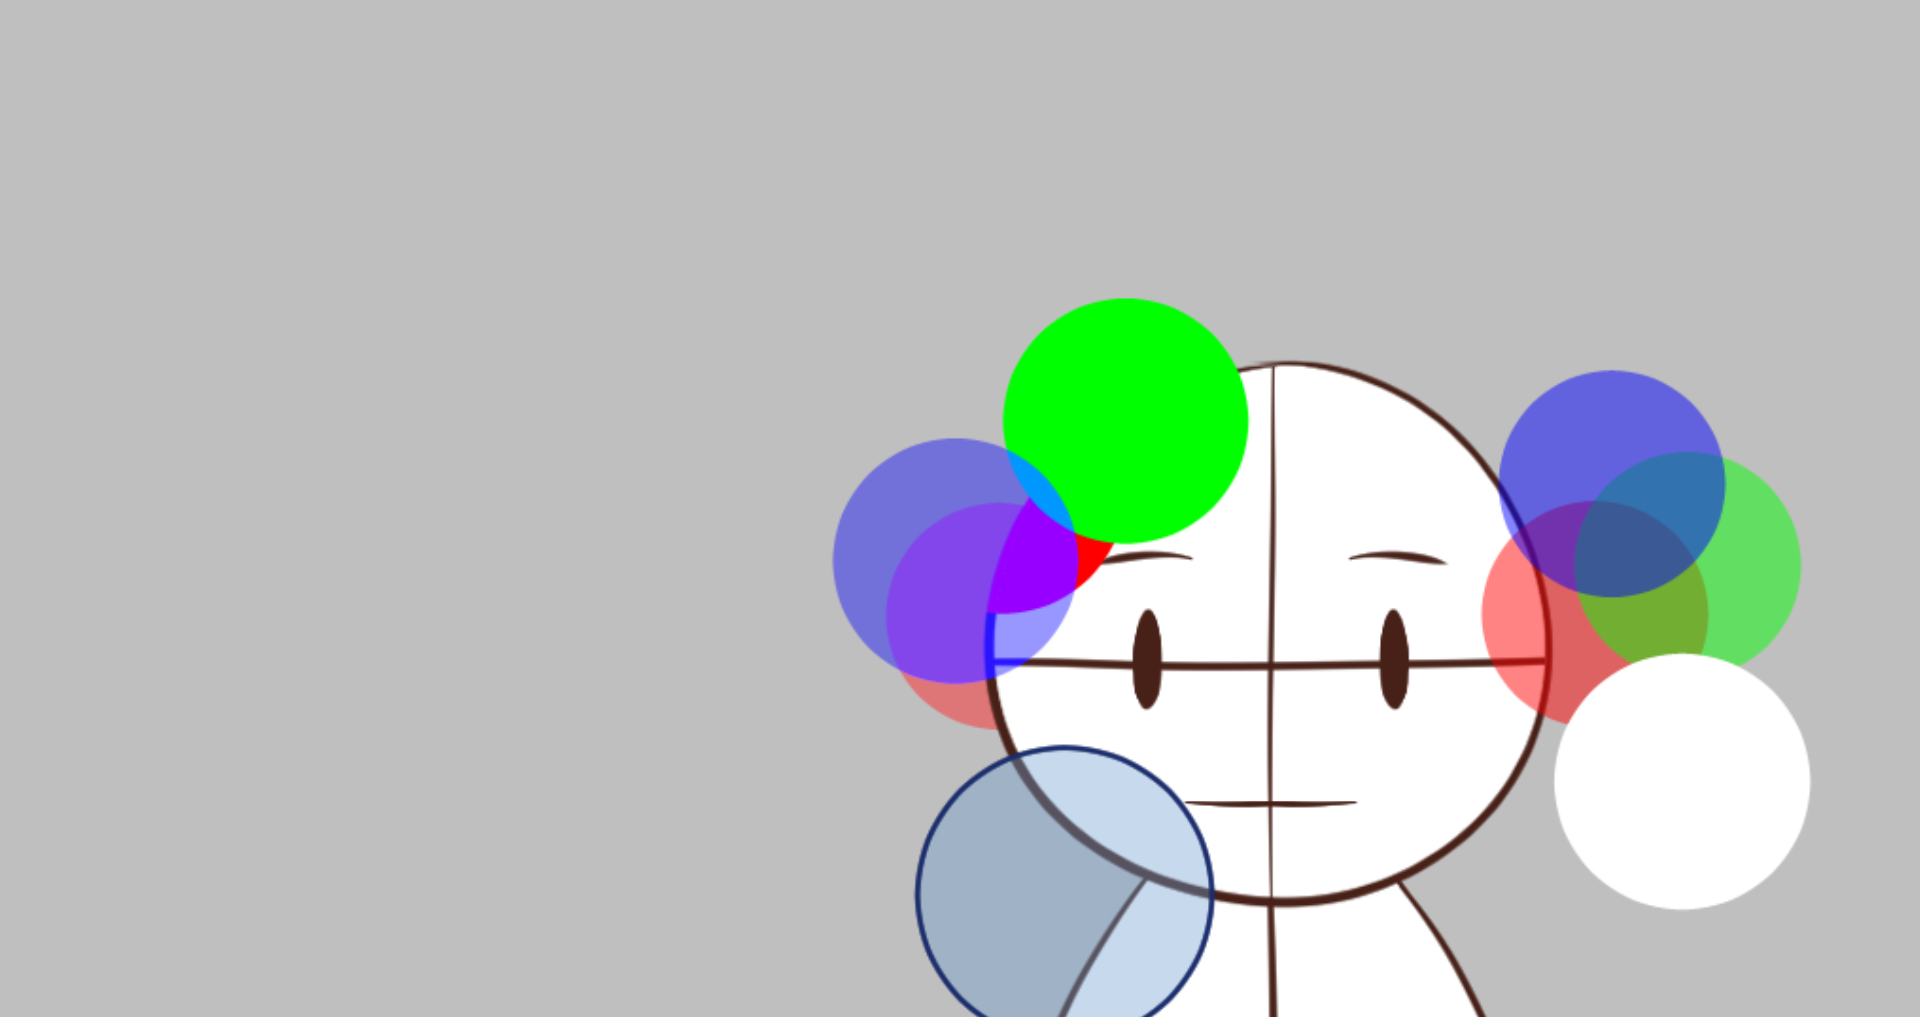
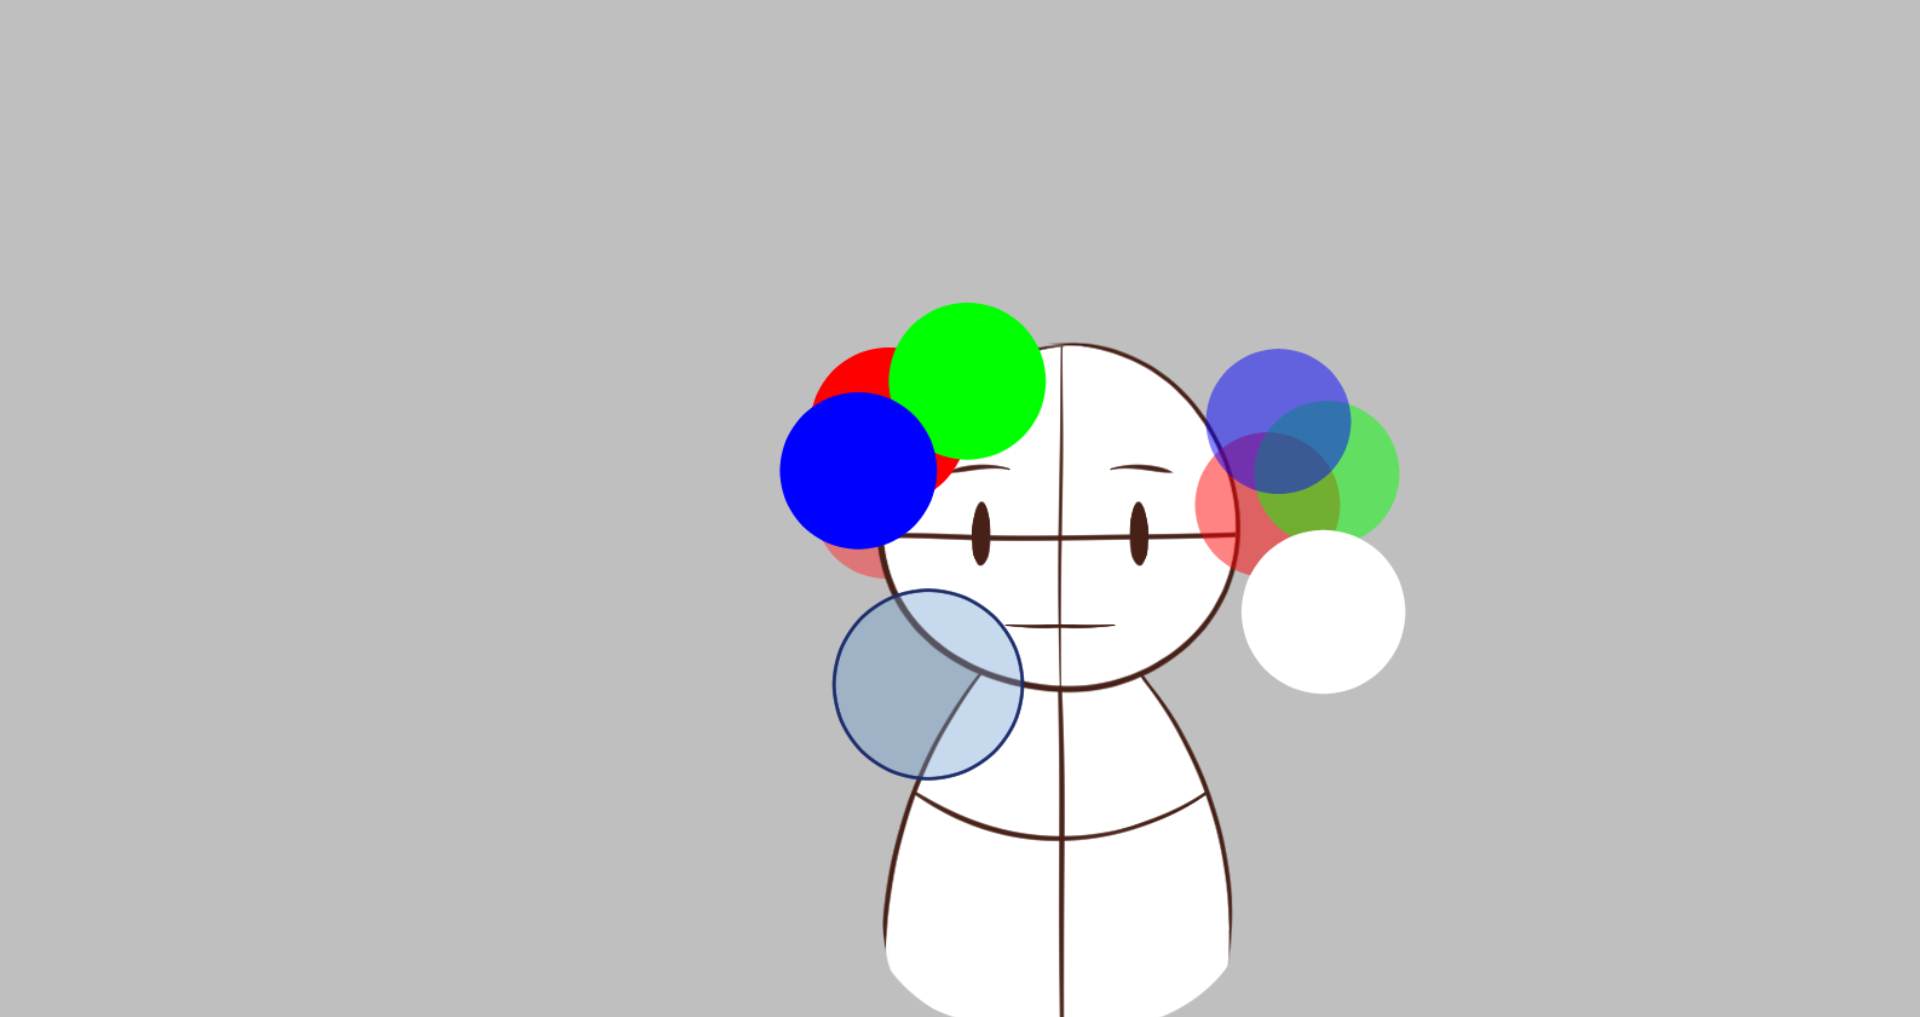
added triangulation

Changed region(s): [[0.4062, 0.2743, 0.9688, 1.0]]

diff --git a/src/Fluff2D/Renderer/Triangulator.cpp b/src/Fluff2D/Renderer/Triangulator.cpp
@@ -1,0 +1,142 @@
+#include "Triangulator.h"
+
+void Triangulator::triangulate(std::vector<Vertex>& vertices, std::vector<unsigned int>& indices, int atlasPositionX, int atlasPositionY, bool flipped, int atlasWidth, int atlasHeight)
+{
+    float xMin = vertices[0].position.x;
+    float yMin = vertices[0].position.y;
+    float xMax = xMin;
+    float yMax = yMin;
+
+    for (int i = 0; i < vertices.size(); i++)
+    {
+        glm::vec2 v = vertices[i].position;
+
+        xMin = std::min(xMin, v.x);
+        yMin = std::min(yMin, v.y);
+        xMax = std::max(xMax, v.x);
+        yMax = std::max(yMax, v.y);
+    }
+
+    float dX = xMax - xMin;
+    float dY = yMax - yMin;
+    float dMax = std::max(dX, dY);
+    float xMid = (xMax + xMin) / 2.0f;
+    float yMid = (yMax + yMin) / 2.0f;
+
+    std::vector<glm::vec2> expanded;
+    expanded.resize(vertices.size() + 3);
+    for (int i = 0; i < vertices.size(); i++)
+    {
+        expanded[i] = vertices[i].position;
+    }
+    expanded[expanded.size() - 3] = glm::vec2(xMid - 2 * dMax, yMid - dMax);
+    expanded[expanded.size() - 2] = glm::vec2(xMid, yMid + 2 * dMax);
+    expanded[expanded.size() - 1] = glm::vec2(xMid + 2 * dMax, yMid - dMax);
+
+    std::vector<Triangle> triangleList;
+    triangleList.emplace_back((unsigned int)vertices.size(), (unsigned int)vertices.size() + 1, (unsigned int)vertices.size() + 2);
+    for (int i1 = 0; i1 < vertices.size(); i1++)
+    {
+        std::vector<Edge> edgeList;
+        int i2 = 0;
+        while (i2 < triangleList.size())
+        {
+            if (inCircle(expanded[i1], expanded[triangleList[i2].p1], expanded[triangleList[i2].p2], expanded[triangleList[i2].p3]))
+            {
+                edgeList.emplace_back(triangleList[i2].p1, triangleList[i2].p2);
+                edgeList.emplace_back(triangleList[i2].p2, triangleList[i2].p3);
+                edgeList.emplace_back(triangleList[i2].p3, triangleList[i2].p1);
+                triangleList.erase(triangleList.begin() + i2);
+                i2--;
+            }
+            i2++;
+        }
+
+        i2 = (int)edgeList.size() - 2;
+        while (i2 >= 0)
+        {
+            int i3 = (int)edgeList.size() - 1;
+            while (i3 >= i2 + 1)
+            {
+                if (edgeList[i2].Equals(edgeList[i3]))
+                {
+                    edgeList.erase(edgeList.begin() + i3);
+                    edgeList.erase(edgeList.begin() + i2);
+                    i3--;
+                }
+                i3--;
+            }
+            i2--;
+        }
+
+        i2 = 0;
+        while (i2 < edgeList.size())
+        {
+            triangleList.emplace_back(edgeList[i2].p1, edgeList[i2].p2, i1);
+            i2++;
+        }
+        edgeList.clear();
+    }
+
+    for (int i = (int)triangleList.size() - 1; i >= 0; i--)
+    {
+        if (triangleList[i].p1 >= vertices.size() || triangleList[i].p2 >= vertices.size() || triangleList[i].p3 >= vertices.size())
+            triangleList.erase(triangleList.begin() + i);
+    }
+
+    //tris = triangleList.ToArray();
+    for (int i = 0; i < triangleList.size(); i++)
+    {
+        indices.push_back(triangleList[i].p1);
+        indices.push_back(triangleList[i].p2);
+        indices.push_back(triangleList[i].p3);
+    }
+}
+
+bool Triangulator::inCircle(glm::vec2 p, glm::vec2 p1, glm::vec2 p2, glm::vec2 p3)
+{
+    float floatEpsilon = 0.000001f;
+
+    if (std::abs(p1.y - p2.y) < floatEpsilon && std::abs(p2.y - p3.y) < floatEpsilon)
+        return false;
+
+    float m1, m2, mx1, mx2, my1, my2, xc, yc;
+
+    if (std::abs(p2.y - p1.y) < floatEpsilon)
+    {
+        m2 = -(p3.x - p2.x) / (p3.y - p2.y);
+        mx2 = (p2.x + p3.x) / 2.0f;
+        my2 = (p2.y + p3.y) / 2.0f;
+        xc = (p2.x + p1.x) / 2.0f;
+        yc = m2 * (xc - mx2) + my2;
+    }
+
+    else if (std::abs(p3.y - p2.y) < floatEpsilon)
+    {
+        m1 = -(p2.x - p1.x) / (p2.y - p1.y);
+        mx1 = (p1.x + p2.x) / 2.0f;
+        my1 = (p1.y + p2.y) / 2.0f;
+        xc = (p3.x + p2.x) / 2.0f;
+        yc = m1 * (xc - mx1) + my1;
+    }
+    else
+    {
+        m1 = -(p2.x - p1.x) / (p2.y - p1.y);
+        m2 = -(p3.x - p2.x) / (p3.y - p2.y);
+        mx1 = (p1.x + p2.x) / 2.0f;
+        mx2 = (p2.x + p3.x) / 2.0f;
+        my1 = (p1.y + p2.y) / 2.0f;
+        my2 = (p2.y + p3.y) / 2.0f;
+        xc = (m1 * mx1 - m2 * mx2 + my2 - my1) / (m1 - m2);
+        yc = m1 * (xc - mx1) + my1;
+    }
+
+    float dx = p2.x - xc;
+    float dy = p2.y - yc;
+    float rSqr = dx * dx + dy * dy;
+    dx = p.x - xc;
+    dy = p.y - yc;
+    float drSqr = dx * dx + dy * dy;
+
+    return drSqr <= rSqr;
+}

diff --git a/src/Fluff2D/Renderer/ModelMesh.cpp b/src/Fluff2D/Renderer/ModelMesh.cpp
@@ -147,17 +147,16 @@ void ModelMesh::createBoxMesh(int boxCountX, int boxCountY, int atlasWidth, int 
 	localVertexPositions.reserve((boxCountX + 1) * (boxCountY + 1));
 	originalVertexPositions.reserve((boxCountX + 1) * (boxCountY + 1));
 	prewarpedVertexPositions.reserve((boxCountX + 1) * (boxCountY + 1));
-	for (int y = 0; y <= boxCountY; y++)
-	{
-		for (int x = 0; x <= boxCountX; x++)
-		{
-			//add flipped method later
-			if (flipped)
+
+	if (flipped)
+		for (int y = 0; y <= boxCountY; y++)
+			for (int x = 0; x <= boxCountX; x++)
+				addVertex(textureHeight * (-0.5f + 1.0f / boxCountX * x), textureWidth * (-0.5f + 1.0f / boxCountY * y), (atlasPositionX + textureWidth - ((float)textureWidth) * y / boxCountY) / atlasWidth, (atlasHeight - atlasPositionY - textureHeight + ((float)textureHeight) * x / boxCountX) / atlasHeight);
+	else
+		for (int y = 0; y <= boxCountY; y++)
+			for (int x = 0; x <= boxCountX; x++)
 				addVertex(textureWidth * (-0.5f + 1.0f / boxCountX * x), textureHeight * (-0.5f + 1.0f / boxCountY * y), (atlasPositionX + ((float)textureWidth) * x / boxCountX) / atlasWidth, (atlasHeight - atlasPositionY - textureHeight + ((float)textureHeight) * y / boxCountY) / atlasHeight);
-			else
-				addVertex(textureWidth * (-0.5f + 1.0f / boxCountX * x), textureHeight * (-0.5f + 1.0f / boxCountY * y), (atlasPositionX + ((float)textureWidth) * x / boxCountX) / atlasWidth, (atlasHeight - atlasPositionY - textureHeight + ((float)textureHeight) * y / boxCountY) / atlasHeight);
-		}
-	}
+
 
 	//indices
 	indices.resize(boxCountX * boxCountY * 6);
@@ -177,5 +176,58 @@ void ModelMesh::createBoxMesh(int boxCountX, int boxCountY, int atlasWidth, int 
 		}
 		vert++;
 	}
+	updateVertexData();
+}
+
+void ModelMesh::createTriMesh(int boxCountX, int boxCountY, int atlasWidth, int atlasHeight)
+{
+	clearMeshData();
+
+	//create vertices for boxes
+	vertices.reserve((boxCountX + 1) * (boxCountY + 1) + boxCountX * boxCountY);
+	localVertexPositions.reserve((boxCountX + 1) * (boxCountY + 1) + boxCountX * boxCountY);
+	originalVertexPositions.reserve((boxCountX + 1) * (boxCountY + 1) + boxCountX * boxCountY);
+	prewarpedVertexPositions.reserve((boxCountX + 1) * (boxCountY + 1) + boxCountX * boxCountY);
+
+	//TODO: add flipped
+	if (flipped)
+	{
+
+	}
+	else
+	{
+		//normal box
+		for (int y = 0; y <= boxCountY; y++)
+			for (int x = 0; x <= boxCountX; x++)
+				addVertex(textureWidth * (-0.5f + 1.0f / boxCountX * x), textureHeight * (-0.5f + 1.0f / boxCountY * y), (atlasPositionX + ((float)textureWidth) * x / boxCountX) / atlasWidth, (atlasHeight - atlasPositionY - textureHeight + ((float)textureHeight) * y / boxCountY) / atlasHeight);
+
+		//put dot in middle
+		for (int y = 0; y < boxCountY; y++)
+			for (int x = 0; x < boxCountX; x++)
+				addVertex(textureWidth * (-0.5f + 1.0f / boxCountX * (x + 0.5f)), textureHeight * (-0.5f + 1.0f / boxCountY * (y + 0.5f)), (atlasPositionX + ((float)textureWidth) * (x + 0.5f) / boxCountX) / atlasWidth, (atlasHeight - atlasPositionY - textureHeight + ((float)textureHeight) * (y + 0.5f) / boxCountY) / atlasHeight);
+	}
+
+	Triangulator::triangulate(vertices, indices, atlasPositionX, atlasPositionY, flipped, atlasWidth, atlasHeight);
+
+	/*
+	//indices
+	indices.resize(boxCountX * boxCountY * 12);
+	for (int boxY = 0, vert = 0; boxY < boxCountY; boxY++)
+	{
+		for (int boxX = 0; boxX < boxCountX; boxX++)
+		{
+			int corners[] = { boxX + (boxCountX + 1) * boxY + 1, boxX + (boxCountX + 1) * boxY, boxX + (boxCountX + 1) * (boxY + 1), boxX + (boxCountX + 1) * (boxY + 1) + 1 };
+			int center = (boxCountX + 1) * (boxCountY + 1) + boxX + boxCountX * boxY;
+			for (int tri = 0; tri < 4; tri++)
+			{
+				indices[vert] = center;
+				indices[vert + 1] = corners[tri];
+				indices[vert + 2] = corners[(tri + 1) % 4];
+				vert += 3;
+			}
+		}
+	}
+	*/
+
 	updateVertexData();
 }

diff --git a/src/Fluff2D/Renderer/TextureLoader.cpp b/src/Fluff2D/Renderer/TextureLoader.cpp
@@ -101,8 +101,6 @@ void TextureLoader::loadPsdFile(const char* fileName, std::shared_ptr<Model> mod
 
 	std::shared_ptr<ModelPartUI> currentFolder;
 
-	size_t totalLayerPixels = 0;
-
 	//read in layer data
 	for (int layerNum = 0; layerNum < layerCount; layerNum++)
 	{
@@ -111,8 +109,6 @@ void TextureLoader::loadPsdFile(const char* fileName, std::shared_ptr<Model> mod
 		layerRects[layerNum].x = (buffer[4] << 24) | ((buffer[5] & 0xFF) << 16) | ((buffer[6] & 0xFF) << 8) | (buffer[7] & 0xFF);
 		layerRects[layerNum].h = ((buffer[8] << 24) | ((buffer[9] & 0xFF) << 16) | ((buffer[10] & 0xFF) << 8) | (buffer[11] & 0xFF)) - layerRects[layerNum].y;
 		layerRects[layerNum].w = ((buffer[12] << 24) | ((buffer[13] & 0xFF) << 16) | ((buffer[14] & 0xFF) << 8) | (buffer[15] & 0xFF)) - layerRects[layerNum].x;
-
-		totalLayerPixels += layerRects[layerNum].h * layerRects[layerNum].w;
 
 		//number of channels
 		pf.read(buffer, 2);
@@ -249,9 +245,9 @@ void TextureLoader::loadPsdFile(const char* fileName, std::shared_ptr<Model> mod
 		}
 	}
 
-	//testing new texturePixelBuffer stuff
-	int atlasWidth = 0, atlasHeight = 0, tempAtlasWidth = 1, tempAtlasHeight = 1;
-	int texturePixelBuffer = std::max(nextPower2(static_cast<int>(sqrt(totalLayerPixels))) / 128, 10);
+	//TODO: maybe make texture buffer scale according to each rect's size?
+	int atlasWidth = 0, atlasHeight = 0;
+	int texturePixelBuffer = 5;
 	auto rectangles = prepareTextureAtlas(layerRects, texturePixelBuffer, &atlasWidth, &atlasHeight);
 
 	std::vector <unsigned char> atlasBytes;
@@ -527,7 +523,7 @@ std::vector<rect_type> TextureLoader::prepareTextureAtlas(std::vector<LayerRect>
 
 	const auto max_side = 16384;
 	const auto discard_step = -4;
-	//change to enabled after testing
+	//turn on after testing
 	const auto runtime_flipping_mode = rectpack2D::flipping_option::DISABLED;
 
 	std::vector<rect_type> rectangles;

diff --git a/src/Fluff2D/Renderer/Triangulator.h b/src/Fluff2D/Renderer/Triangulator.h
@@ -1,0 +1,43 @@
+#pragma once
+#include <vector>
+#include "Vertex.h"
+
+//based off of https://github.com/TassuP/GodotStuff/blob/master/DelaunayTriangulator/Delaunay.gd
+
+class Triangulator
+{
+public:
+	static void triangulate(std::vector<Vertex> &vertices, std::vector<unsigned int>& indices, int atlasPositionX, int atlasPositionY, bool flipped, int atlasWidth, int atlasHeight);
+private:
+	class Triangle
+	{
+	public:
+		unsigned int p1, p2, p3;
+		Triangle(int _p1, int _p2, int _p3)
+		{
+			p1 = _p1;
+			p2 = _p2;
+			p3 = _p3;
+		}
+	};
+
+	class Edge
+	{
+	public:
+		int p1, p2;
+
+		Edge(unsigned int _p1, unsigned int _p2)
+		{
+			p1 = _p1;
+			p2 = _p2;
+		}
+
+		bool Equals(Edge other)
+		{
+			return ((p1 == other.p2) && (p2 == other.p1)) || ((p1 == other.p1) && (p2 == other.p2));
+		}
+	};
+
+	static bool inCircle(glm::vec2 p, glm::vec2 p1, glm::vec2 p2, glm::vec2 p3);
+};
+

diff --git a/src/Fluff2D/Renderer/ModelMesh.h b/src/Fluff2D/Renderer/ModelMesh.h
@@ -7,6 +7,7 @@
 #include "ModelPart.h"
 #include "../UI/ModelPartUI.h"
 #include "../Core/Parameter.h"
+#include "Triangulator.h"
 
 class ModelMesh : public ModelPart
 {
@@ -31,6 +32,7 @@ public:
 
 	//testing, call after making basic mesh
 	void createBoxMesh(int boxCountX, int boxCountY, int atlasWidth, int atlasHeight);
+	void createTriMesh(int boxCountX, int boxCountY, int atlasWidth, int atlasHeight);
 
 private:
 	int atlasPositionX = 0, atlasPositionY = 0, textureWidth = 0, textureHeight = 0;

diff --git a/src/Fluff2D/Renderer/Model.cpp b/src/Fluff2D/Renderer/Model.cpp
@@ -243,7 +243,7 @@ void Model::generateTestBoxMesh(std::string partName, int boxSizeX, int boxSizeY
 	{
 		if (modelMeshes[i]->name == partName)
 		{
-			modelMeshes[i]->createBoxMesh(boxSizeX, boxSizeY, atlasWidth, atlasHeight);
+			modelMeshes[i]->createTriMesh(boxSizeX, boxSizeY, atlasWidth, atlasHeight);
 		}
 	}
 }

diff --git a/src/Fluff2D/Renderer/LayerRect.cpp b/src/Fluff2D/Renderer/LayerRect.cpp
@@ -5,13 +5,15 @@ LayerRect::LayerRect()
 	y = x = w = h = 0;
 }
 
-LayerRect::LayerRect(int _y, int _x, int _w, int _h)
+/*
+LayerRect::LayerRect(int _x, int _y, int _w, int _h)
 {
-	y = _y;
 	x = _x;
+	y = _y;
 	w = _w;
 	h = _h;
 }
+*/
 
 LayerRect::LayerRect(const LayerRect& layerRect)
 {

diff --git a/src/Fluff2D/Renderer/LayerRect.h b/src/Fluff2D/Renderer/LayerRect.h
@@ -13,7 +13,7 @@ public:
 	LayerType layerType = LayerType::image;
 
 	LayerRect();
-	LayerRect(int _y, int _x, int _w, int _h);
+	//LayerRect(int _x, int _y, int _w, int _h);
 	LayerRect(const LayerRect& layerRect);
 
 	~LayerRect() {}
